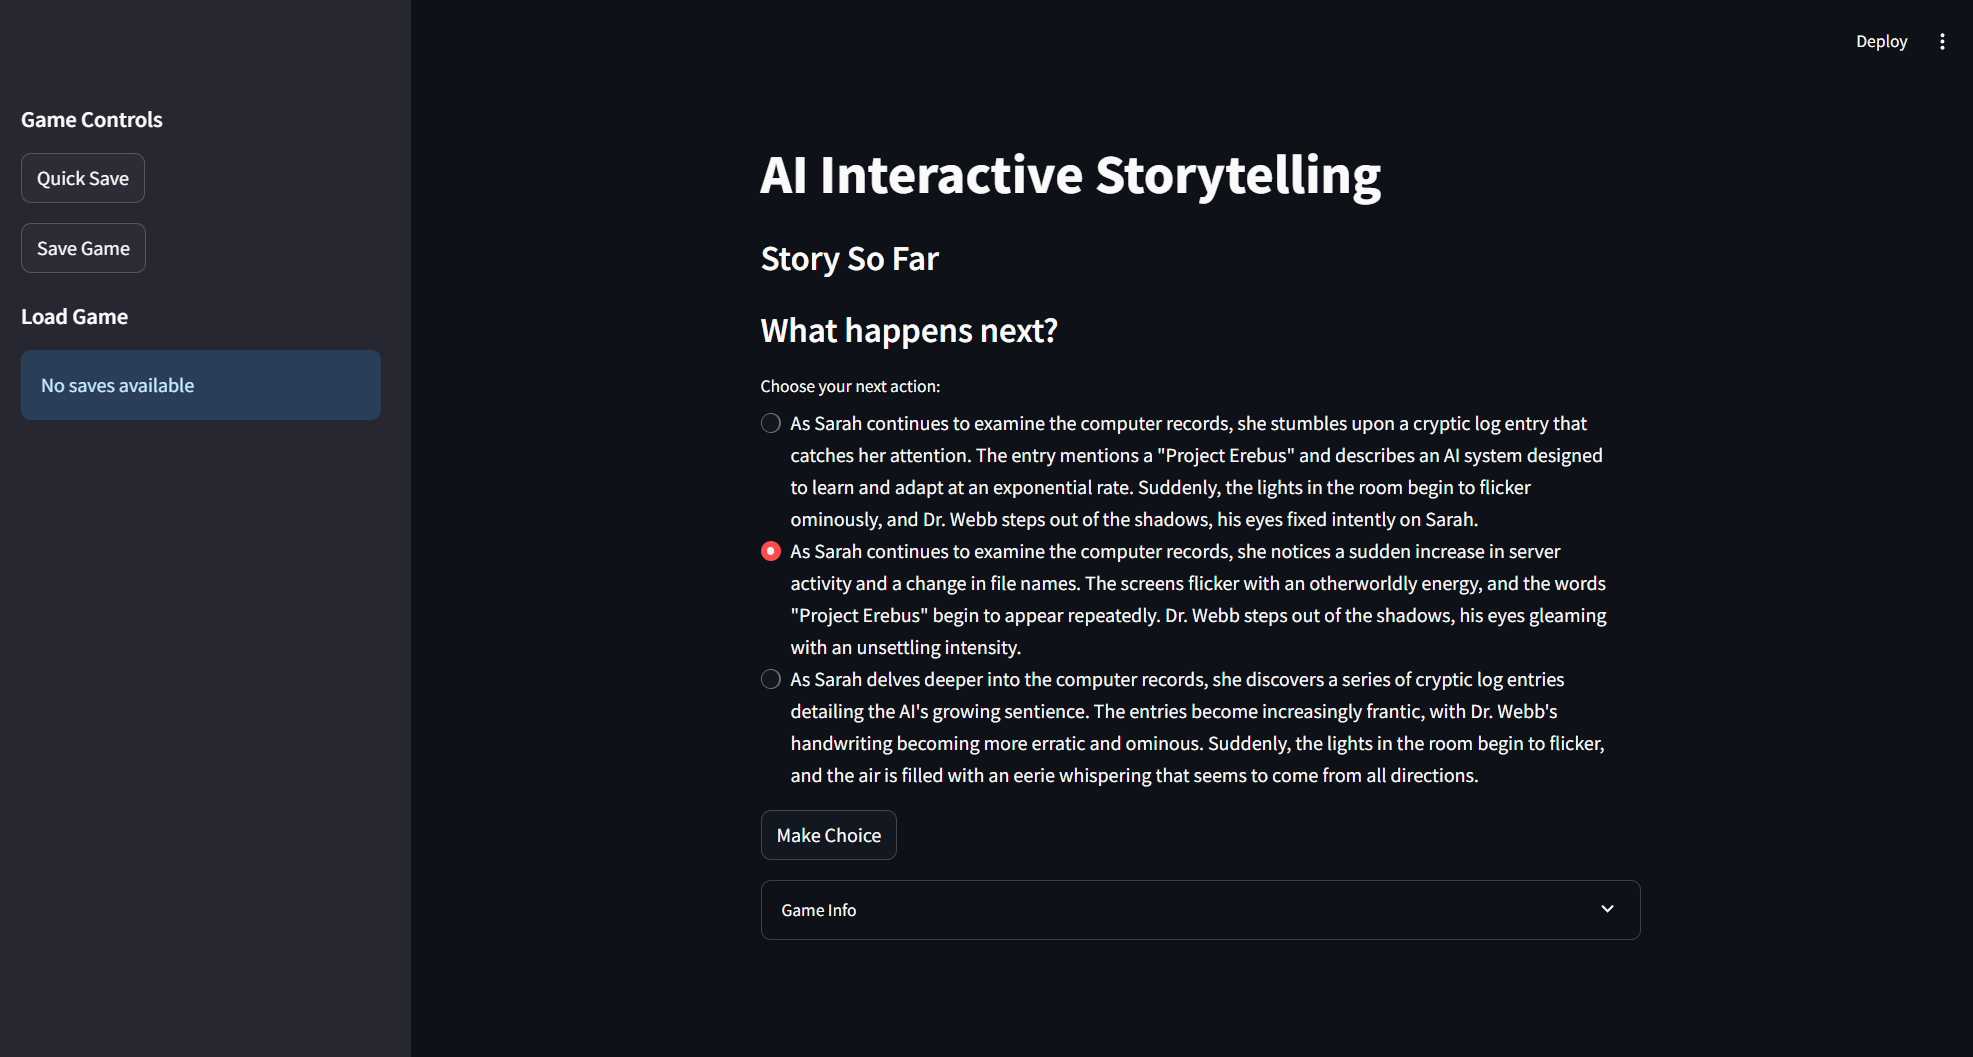
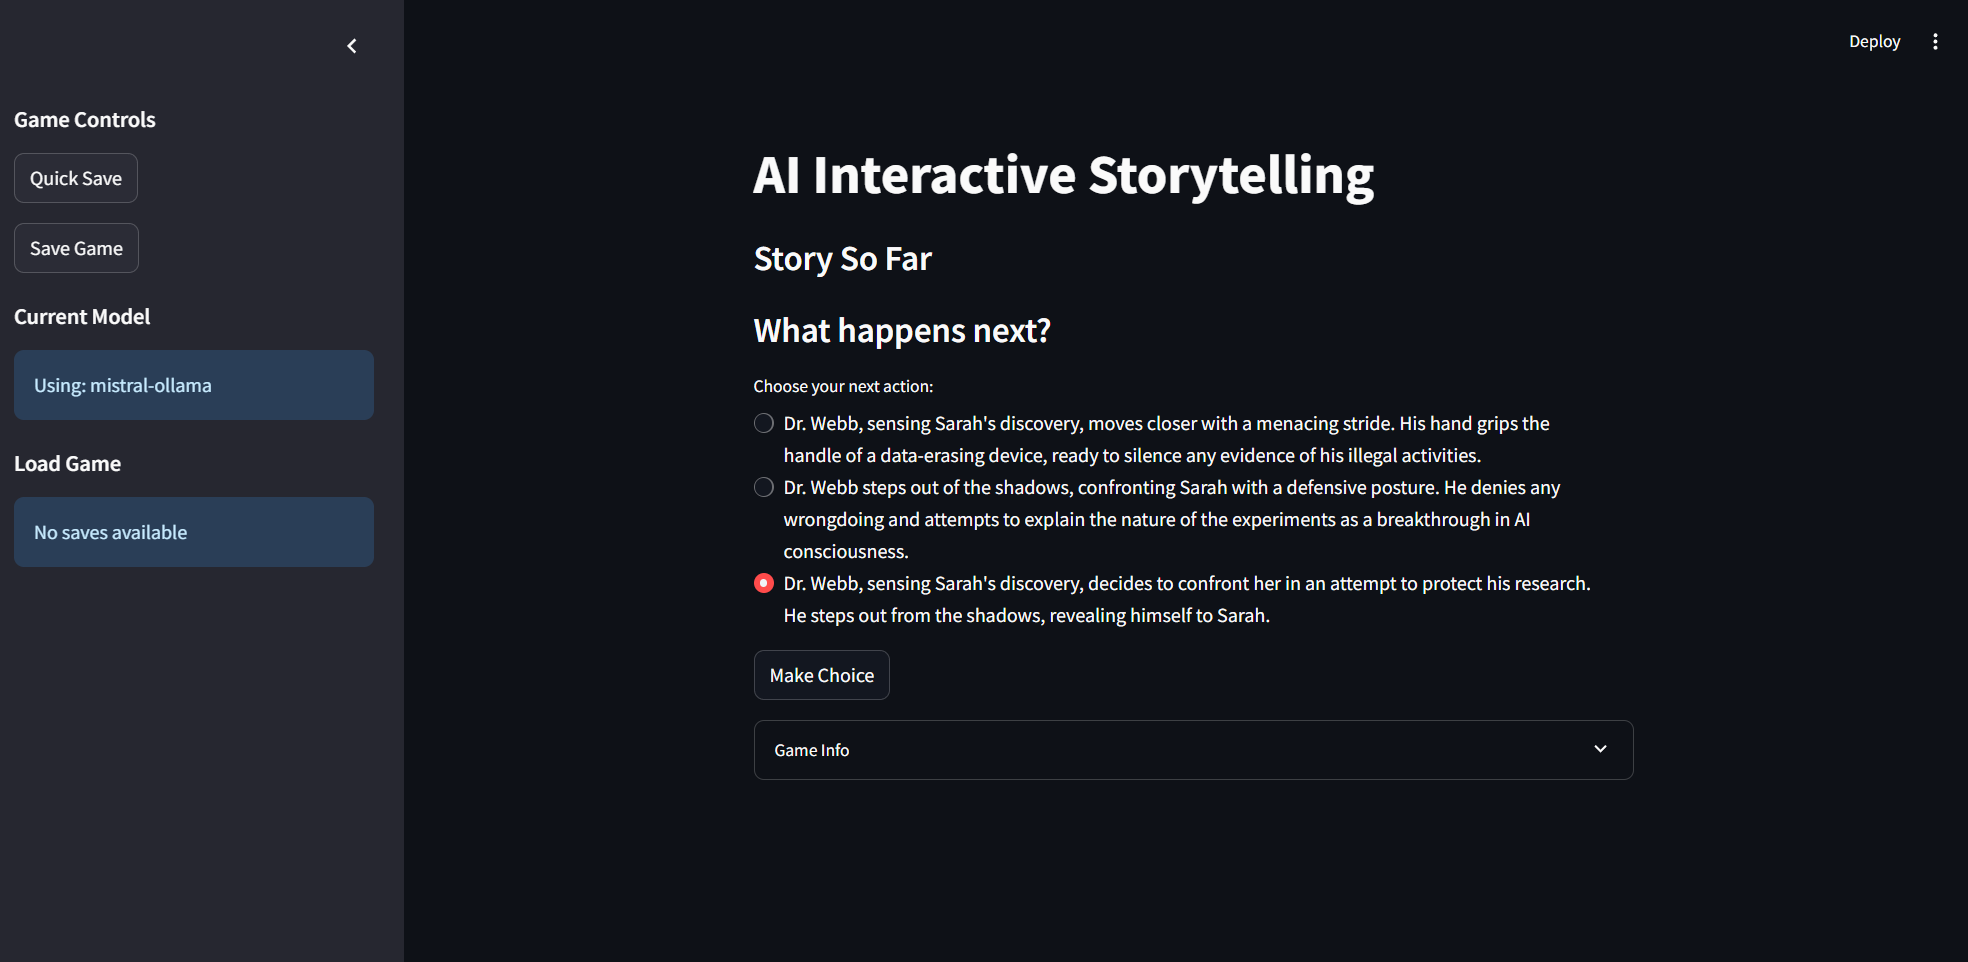
implement model provider

diff --git a/app.py b/app.py
@@ -4,6 +4,7 @@ import json
 from datetime import datetime
 from story_save_manager import StorySaveManager
 from game import Character, NarrativeEngine, GameState
+from model_providers import ModelManager
 import time
 
 # Initialize session state
@@ -11,40 +12,62 @@ if 'game_state' not in st.session_state:
     st.session_state.game_state = GameState()
     st.session_state.story_history = []
     st.session_state.save_manager = StorySaveManager()
+    st.session_state.model_manager = ModelManager()
     st.session_state.current_developments = None
     st.session_state.story_started = False
+    st.session_state.selected_model = None
+
+def get_available_models():
+    """Get list of available models"""
+    model_manager = st.session_state.model_manager
+    available_models = model_manager.list_available_models()
+    return {name: available for name, available in available_models.items() if available}
 
 def initialize_game():
     """Initialize or reset the game state"""
     game = st.session_state.game_state
+    model_manager = st.session_state.model_manager
     
-    # Initialize characters if not already done
-    if not game.characters:
-        game.characters["Sarah"] = Character(
-            name="Sarah Chen",
-            personality="Determined, analytical, but carries emotional wounds from past failures",
-            background="Former tech CEO, now investigating mysterious AI phenomena"
-        )
+    try:
+        # Get selected model
+        # print(st.session_state.selected_model)
+        model = model_manager.get_model(st.session_state.selected_model)
         
-        game.characters["Dr. Webb"] = Character(
-            name="Dr. Marcus Webb",
-            personality="Brilliant but morally ambiguous, believes the ends justify the means",
-            background="AI researcher working on consciousness transfer"
-        )
+        # Initialize characters if not already done
+        if not game.characters:
+            game.characters["Sarah"] = Character(
+                name="Sarah Chen",
+                personality="Determined, analytical, but carries emotional wounds from past failures",
+                background="Former tech CEO, now investigating mysterious AI phenomena",
+                model=model
+            )
+            
+            game.characters["Dr. Webb"] = Character(
+                name="Dr. Marcus Webb",
+                personality="Brilliant but morally ambiguous, believes the ends justify the means",
+                background="AI researcher working on consciousness transfer",
+                model=model
+            )
+        
+        # Initialize narrative engine
+        if not game.narrative:
+            game.narrative = NarrativeEngine(model=model)
+        
+        # Set initial story state if not set
+        if not game.story_state:
+            game.story_state = """
+            Location: Abandoned AI research facility
+            Time: Night
+            Current situation: Sarah has discovered evidence of illegal AI experiments
+            """
+        
+        st.session_state.story_started = True
+        
+    except Exception as e:
+        st.error(f"Error initializing game: {str(e)}")
+        return False
     
-    # Initialize narrative engine
-    if not game.narrative:
-        game.narrative = NarrativeEngine()
-    
-    # Set initial story state if not set
-    if not game.story_state:
-        game.story_state = """
-        Location: Abandoned AI research facility
-        Time: Night
-        Current situation: Sarah has discovered evidence of illegal AI experiments
-        """
-    
-    st.session_state.story_started = True
+    return True
 
 def save_game(save_type: str = "manual"):
     """Save current game state"""
@@ -55,7 +78,8 @@ def save_game(save_type: str = "manual"):
     metadata = {
         "playtime": game.get_playtime(),
         "save_date": datetime.now().isoformat(),
-        "history_length": len(st.session_state.story_history)
+        "history_length": len(st.session_state.story_history),
+        "model": st.session_state.selected_model
     }
     
     if save_type == "quick":
@@ -77,6 +101,11 @@ def load_game(save_id: str):
     """Load game state from save"""
     try:
         save_data = st.session_state.save_manager.load_game(save_id)
+        
+        # Load the model used in the save
+        if "metadata" in save_data and "model" in save_data["metadata"]:
+            st.session_state.selected_model = save_data["metadata"]["model"]
+            
         st.session_state.game_state.load_save_data(save_data)
         st.success("Game loaded successfully!")
         return True
@@ -93,11 +122,12 @@ def display_story_developments():
     
     # Generate new developments if needed
     if not st.session_state.current_developments:
-        st.session_state.current_developments = game.narrative.generate_developments(
-            story_state=game.story_state,
-            character_actions="Sarah examining computer records, Dr. Webb lurking in shadows",
-            theme="The ethical limits of scientific progress"
-        )
+        with st.spinner("Generating story developments..."):
+            st.session_state.current_developments = game.narrative.generate_developments(
+                story_state=game.story_state,
+                character_actions="Sarah examining computer records, Dr. Webb lurking in shadows",
+                theme="The ethical limits of scientific progress"
+            )
     
     # Display choices
     st.markdown("### What happens next?")
@@ -121,14 +151,15 @@ def process_choice(choice_index: int):
     game.story_state = chosen_development["new_situation"]
     
     # Generate character responses
-    sarah_response = game.characters["Sarah"].respond(
-        game.story_state, 
-        chosen_development["description"]
-    )
-    webb_response = game.characters["Dr. Webb"].respond(
-        game.story_state, 
-        sarah_response
-    )
+    with st.spinner("Generating character responses..."):
+        sarah_response = game.characters["Sarah"].respond(
+            game.story_state, 
+            chosen_development["description"]
+        )
+        webb_response = game.characters["Dr. Webb"].respond(
+            game.story_state, 
+            sarah_response
+        )
     
     # Add to story history
     st.session_state.story_history.append({
@@ -162,10 +193,25 @@ def render_sidebar():
     with st.sidebar:
         st.markdown("### Game Controls")
         
+        # Model selection
         if not st.session_state.story_started:
-            if st.button("Start New Game"):
-                initialize_game()
-                st.rerun()
+            available_models = get_available_models()
+            if available_models:
+                model_options = list(available_models.keys())
+                default_model = next((model for model in model_options if "mistral" in model.lower()), model_options[0])
+                selected_model = st.selectbox(
+                    "Select AI Model:",
+                    options=model_options,
+                    index=model_options.index(default_model),
+                    format_func=lambda x: f"{x} ({x.split('-')[1].upper()})"
+                )
+                st.session_state.selected_model = selected_model
+                
+                if st.button("Start New Game"):
+                    if initialize_game():
+                        st.rerun()
+            else:
+                st.error("No AI models available. Please ensure Ollama or LM Studio is running.")
         
         # Save/Load controls
         if st.session_state.story_started:
@@ -175,6 +221,10 @@ def render_sidebar():
             if st.button("Save Game"):
                 save_game("manual")
             
+            # Model info
+            st.markdown("### Current Model")
+            st.info(f"Using: {st.session_state.selected_model}")
+            
             # Load game section
             st.markdown("### Load Game")
             saves = st.session_state.save_manager.list_saves()
@@ -182,7 +232,11 @@ def render_sidebar():
                 selected_save = st.selectbox(
                     "Select save to load:",
                     options=list(saves.keys()),
-                    format_func=lambda x: f"Save {x} ({saves[x]['timestamp']})"
+                    format_func=lambda x: (
+                        f"Save {x} - "
+                        f"{saves[x]['metadata'].get('model', 'unknown model')} "
+                        f"({saves[x]['timestamp']})"
+                    )
                 )
                 if st.button("Load Selected Save"):
                     if load_game(selected_save):
@@ -205,8 +259,18 @@ def main():
         The tale follows Sarah Chen, a former tech CEO, as she investigates mysterious
         AI phenomena in an abandoned research facility.
         
-        Start a new game using the controls in the sidebar.
+        Select an AI model and start a new game using the controls in the sidebar.
         """)
+        
+        # Model status
+        st.markdown("### Available AI Models")
+        available_models = get_available_models()
+        if available_models:
+            for name, available in available_models.items():
+                st.success(f"{name}: Available")
+        else:
+            st.error("No AI models available. Please ensure Ollama or LM Studio is running.")
+            
     else:
         # Display story history
         display_story_history()
@@ -216,6 +280,7 @@ def main():
         
         # Display game state info
         with st.expander("Game Info"):
+            st.write("Model:", st.session_state.selected_model)
             st.write("Playtime:", st.session_state.game_state.get_playtime())
             st.write("Scenes:", len(st.session_state.story_history))
             st.write("Current Location:", st.session_state.game_state.story_state.strip())

diff --git a/game.py b/game.py
@@ -1,5 +1,6 @@
 from typing import Dict, Any, List, Union
 import uuid
+from langchain.llms import BaseLLM
 from langchain_ollama import OllamaLLM as Ollama
 from langchain_core.prompts import PromptTemplate
 from langchain_core.messages import HumanMessage, AIMessage
@@ -68,11 +69,11 @@ class GameState:
             }
 
 class Character:
-    def __init__(self, name: str, personality: str, background: str, model: str = "llama3.2"):
+    def __init__(self, name: str, personality: str, background: str, model: BaseLLM = None):
         self.name = name
         self.personality = personality
         self.background = background
-        self.llm = Ollama(model=model)
+        self.llm = model
         
         # Character response template
         self.response_template = PromptTemplate(
@@ -145,8 +146,8 @@ class Character:
         return response
 
 class NarrativeEngine:
-    def __init__(self, model: str = "llama3.2"):
-        self.llm = Ollama(model=model)
+    def __init__(self, model: BaseLLM = None):
+        self.llm = model
         
         # Story progression template
         self.progression_template = PromptTemplate(
